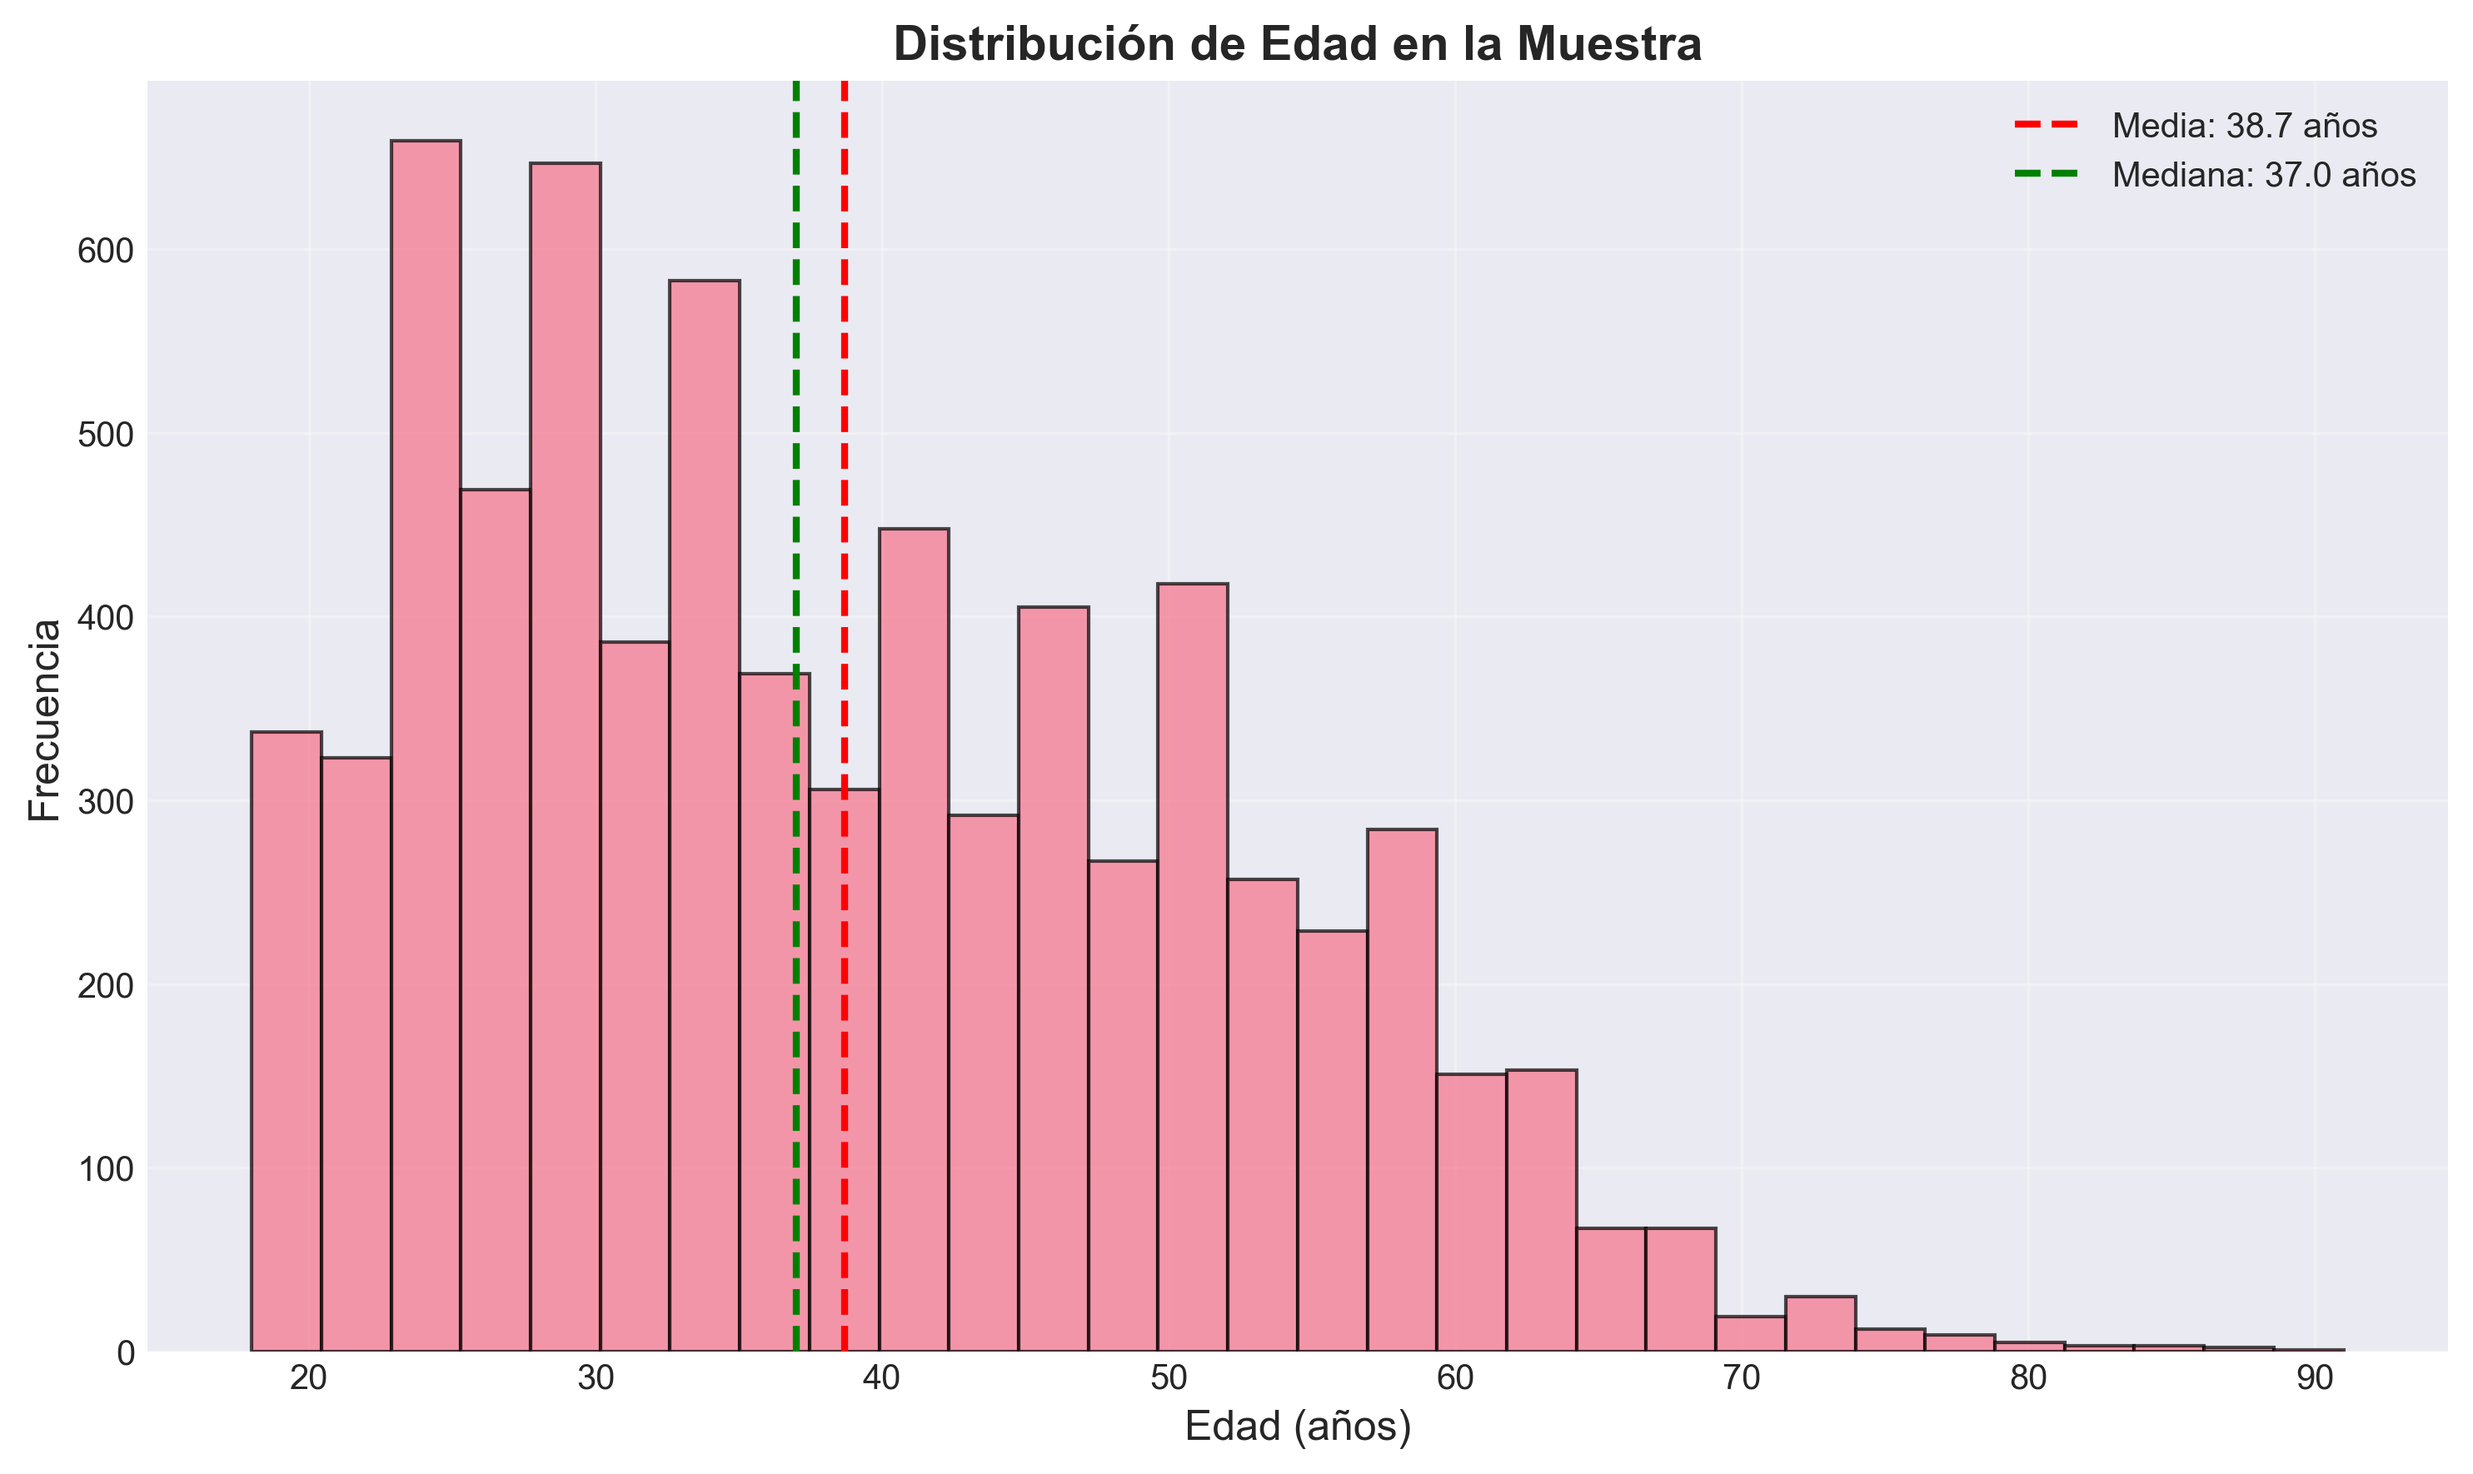
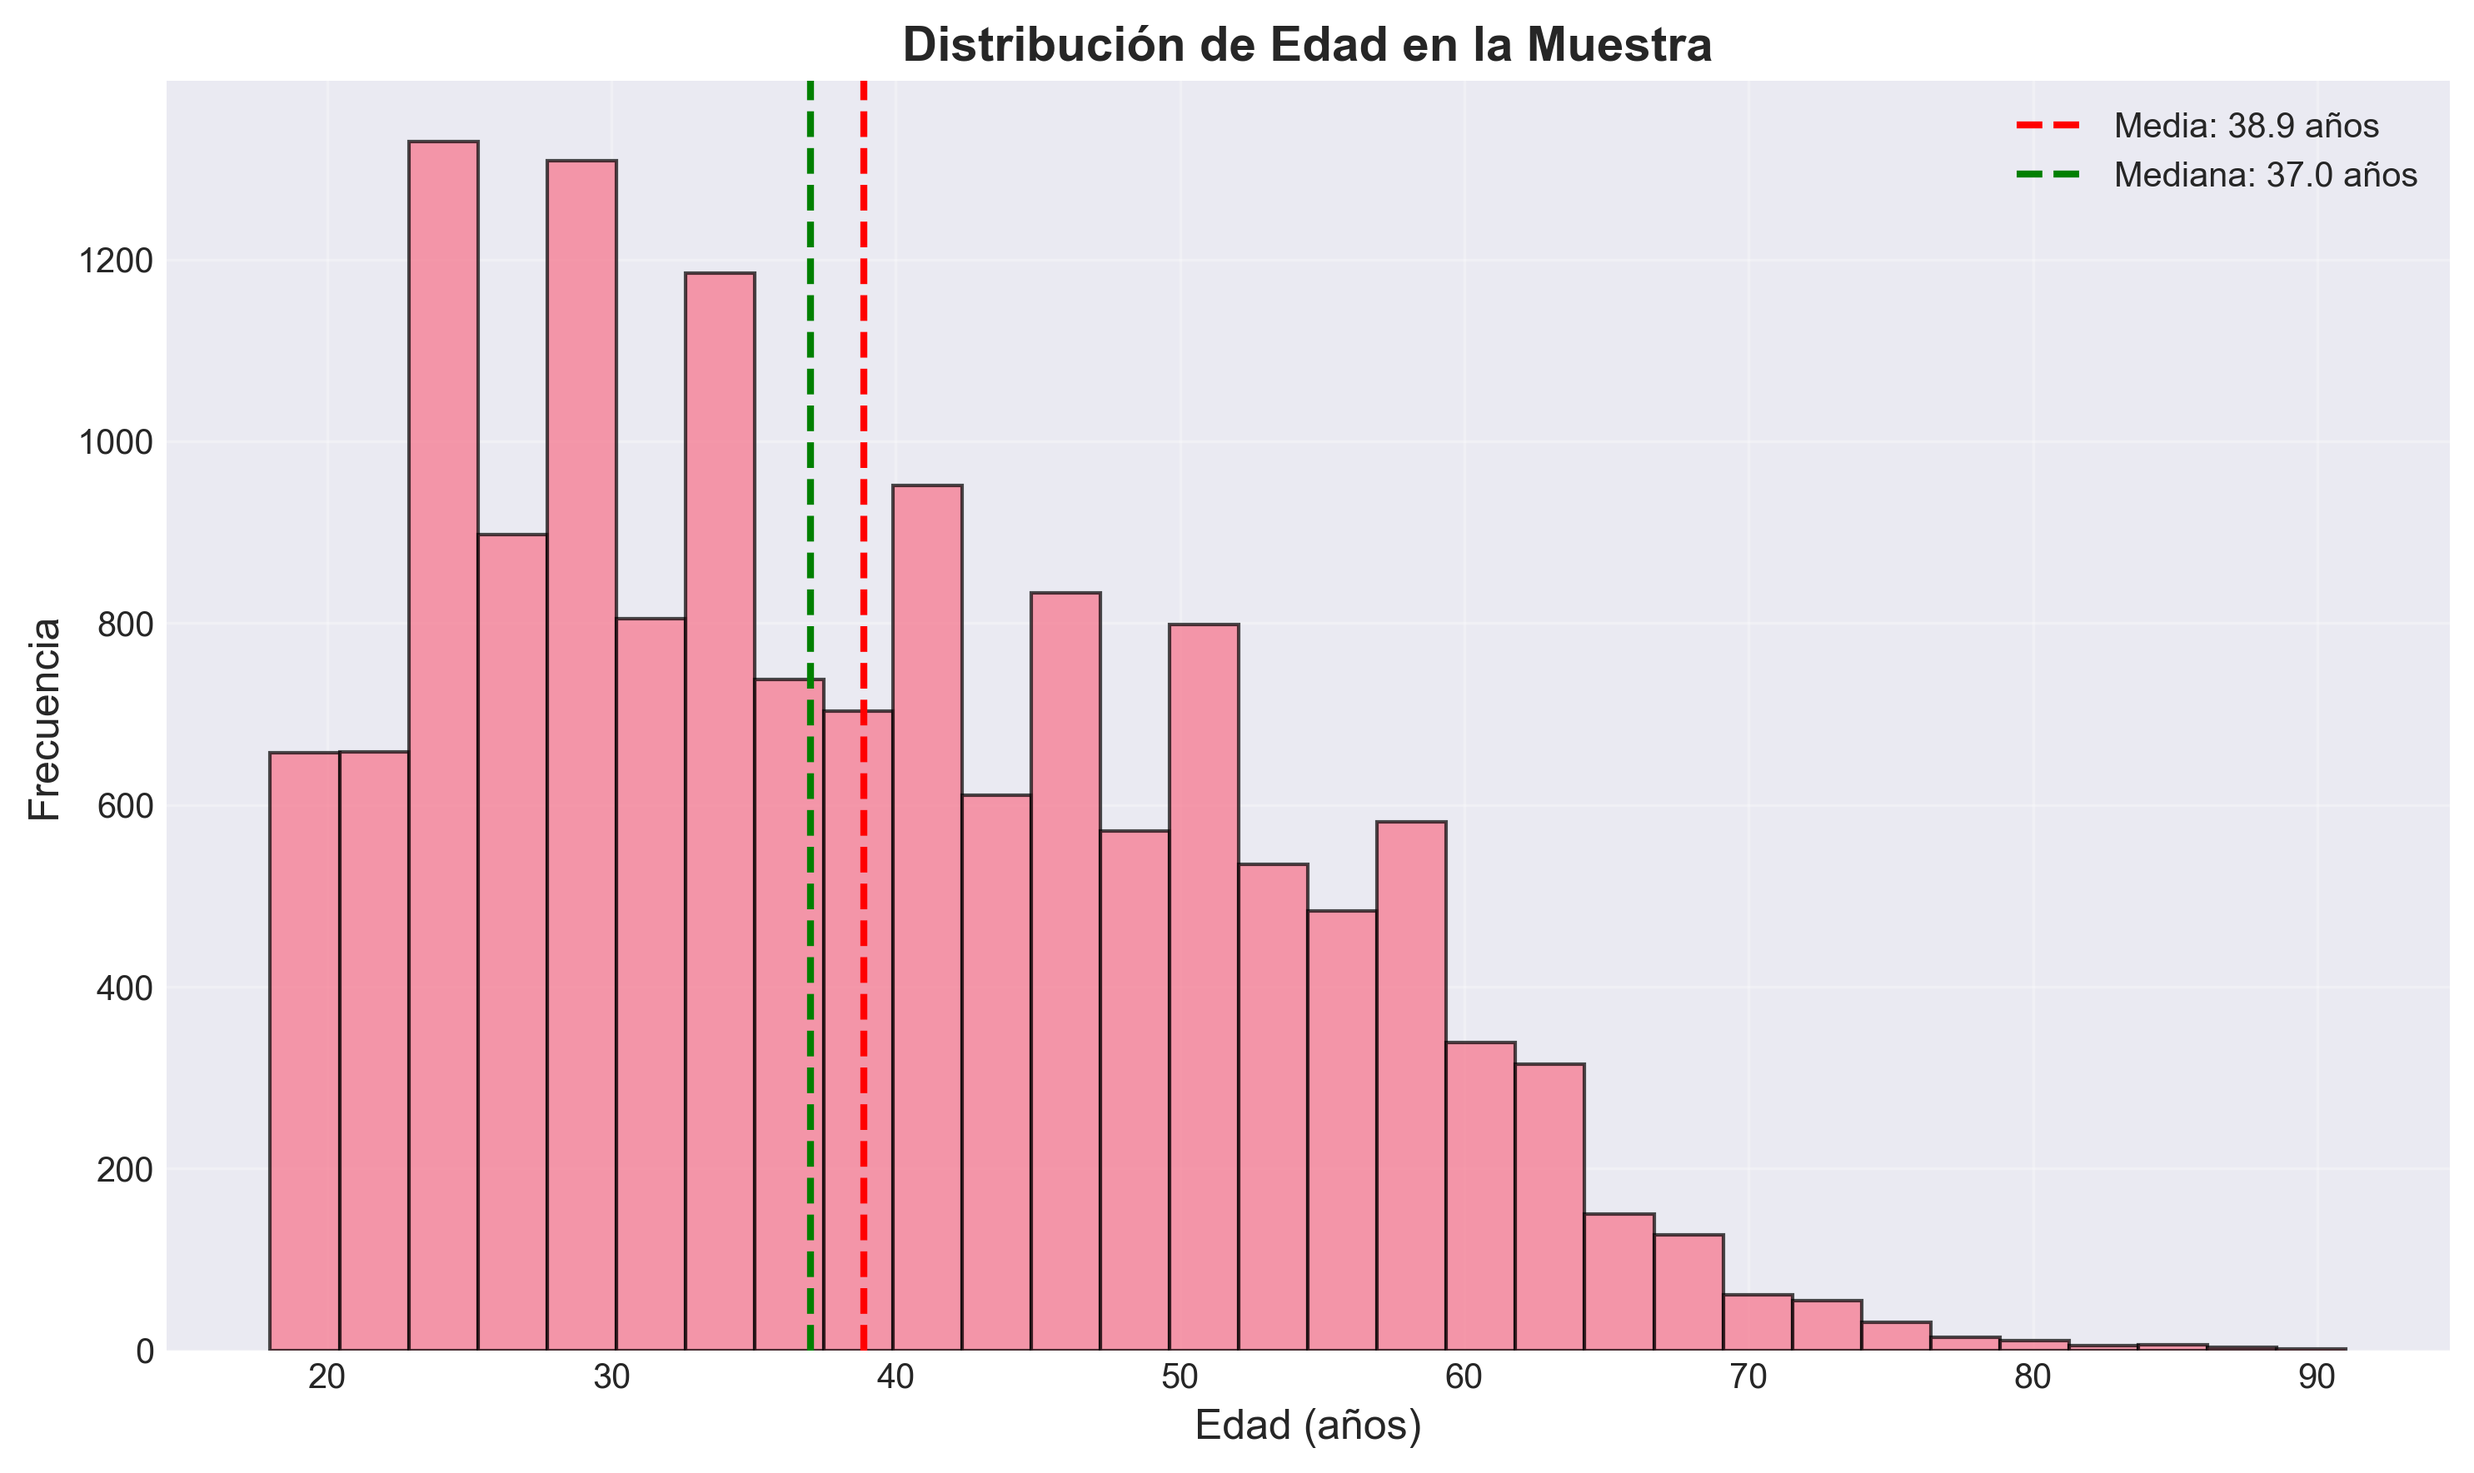
Added section "Instalar librerías"

diff --git a/02_output/tables/comparison_baseline_imputed.tex b/02_output/tables/comparison_baseline_imputed.tex
@@ -1,6 +1,6 @@
 
 % Table created by stargazer v.5.2.3 by Marek Hlavac, Social Policy Institute. E-mail: marek.hlavac at gmail.com
-% Date and time: Sun, Feb 15, 2026 - 23:47:49
+% Date and time: mar, feb. 17, 2026 - 1:21:40 p. m.
 \begin{table}[!htbp] \centering 
   \caption{Age-Income Profile: Baseline vs Imputed Comparison} 
   \label{tab:comparison} 
@@ -12,25 +12,25 @@
  & \multicolumn{2}{c}{Baseline} & \multicolumn{2}{c}{Imputed} \\ 
 \\[-1.8ex] & (1) & (2) & (3) & (4)\\ 
 \hline \\[-1.8ex] 
- Age & 0.0815$^{***}$ & 0.0661$^{***}$ & 0.0678$^{***}$ & 0.0549$^{***}$ \\ 
-  & (0.0044) & (0.0038) & (0.0040) & (0.0035) \\ 
+ Age & 0.0835$^{***}$ & 0.0693$^{***}$ & 0.0698$^{***}$ & 0.0580$^{***}$ \\ 
+  & (0.0032) & (0.0028) & (0.0029) & (0.0026) \\ 
   & & & & \\ 
- Age Squared & $-$0.0010$^{***}$ & $-$0.0008$^{***}$ & $-$0.0008$^{***}$ & $-$0.0006$^{***}$ \\ 
-  & (0.0001) & (0.00004) & (0.00005) & (0.00004) \\ 
+ Age Squared & $-$0.0010$^{***}$ & $-$0.0008$^{***}$ & $-$0.0008$^{***}$ & $-$0.0007$^{***}$ \\ 
+  & (0.00004) & (0.00003) & (0.00003) & (0.00003) \\ 
   & & & & \\ 
- Hours Worked &  &  & 0.0136$^{***}$ & 0.0111$^{***}$ \\ 
-  &  &  & (0.0006) & (0.0005) \\ 
+ Hours Worked &  &  & 0.0130$^{***}$ & 0.0106$^{***}$ \\ 
+  &  &  & (0.0004) & (0.0004) \\ 
   & & & & \\ 
- Constant & 12.3600$^{***}$ & 12.6487$^{***}$ & 11.9878$^{***}$ & 12.3573$^{***}$ \\ 
-  & (0.0874) & (0.0761) & (0.0816) & (0.0723) \\ 
+ Constant & 12.3545$^{***}$ & 12.6197$^{***}$ & 12.0231$^{***}$ & 12.3654$^{***}$ \\ 
+  & (0.0636) & (0.0562) & (0.0595) & (0.0534) \\ 
   & & & & \\ 
 \hline \\[-1.8ex] 
 Labor Relation FE & No & No & Yes & Yes \\ 
-Peak Age & 41.2 & 41.4 & 44.1 & 44.6 \\ 
-Sample Size & 7,201 & 8,153 & 7,201 & 8,153 \\ 
-Observations & 7,201 & 8,153 & 7,201 & 8,153 \\ 
-R$^{2}$ & 0.0483 & 0.0393 & 0.2289 & 0.1956 \\ 
-Adjusted R$^{2}$ & 0.0481 & 0.0391 & 0.2279 & 0.1945 \\ 
+Peak Age & 40.6 & 40.8 & 43.6 & 44.0 \\ 
+Sample Size & 14,764 & 16,542 & 14,764 & 16,542 \\ 
+Observations & 14,764 & 16,542 & 14,764 & 16,542 \\ 
+R$^{2}$ & 0.0500 & 0.0420 & 0.2264 & 0.1967 \\ 
+Adjusted R$^{2}$ & 0.0499 & 0.0419 & 0.2260 & 0.1961 \\ 
 \hline 
 \hline \\[-1.8ex] 
 \textit{Note:}  & \multicolumn{4}{r}{$^{*}$p$<$0.1; $^{**}$p$<$0.05; $^{***}$p$<$0.01} \\ 

diff --git a/02_output/tables/age_income_regressions_imputed.tex b/02_output/tables/age_income_regressions_imputed.tex
@@ -1,6 +1,6 @@
 
 % Table created by stargazer v.5.2.3 by Marek Hlavac, Social Policy Institute. E-mail: marek.hlavac at gmail.com
-% Date and time: Sun, Feb 15, 2026 - 23:47:45
+% Date and time: mar, feb. 17, 2026 - 1:21:30 p. m.
 \begin{table}[!htbp] \centering 
   \caption{Age-Income Profile Regressions (Imputed Version)} 
   \label{tab:age_income_imputed} 
@@ -12,25 +12,25 @@
 \\[-1.8ex] & \multicolumn{2}{c}{Log(Monthly Income)} \\ 
 \\[-1.8ex] & (1) & (2)\\ 
 \hline \\[-1.8ex] 
- Age & 0.0661$^{***}$ & 0.0549$^{***}$ \\ 
-  & (0.0038) & (0.0035) \\ 
+ Age & 0.0693$^{***}$ & 0.0580$^{***}$ \\ 
+  & (0.0028) & (0.0026) \\ 
   & & \\ 
- Age Squared & $-$0.0008$^{***}$ & $-$0.0006$^{***}$ \\ 
-  & (0.00004) & (0.00004) \\ 
+ Age Squared & $-$0.0008$^{***}$ & $-$0.0007$^{***}$ \\ 
+  & (0.00003) & (0.00003) \\ 
   & & \\ 
- Hours Worked &  & 0.0111$^{***}$ \\ 
-  &  & (0.0005) \\ 
+ Hours Worked &  & 0.0106$^{***}$ \\ 
+  &  & (0.0004) \\ 
   & & \\ 
- Constant & 12.6487$^{***}$ & 12.3573$^{***}$ \\ 
-  & (0.0761) & (0.0723) \\ 
+ Constant & 12.6197$^{***}$ & 12.3654$^{***}$ \\ 
+  & (0.0562) & (0.0534) \\ 
   & & \\ 
 \hline \\[-1.8ex] 
 Labor Relation FE & No & Yes \\ 
-Peak Age & 41.4 & 44.6 \\ 
+Peak Age & 40.8 & 44.0 \\ 
 Sample & Full (N=8,153) & Full (N=8,153) \\ 
-Observations & 8,153 & 8,153 \\ 
-R$^{2}$ & 0.0393 & 0.1956 \\ 
-Adjusted R$^{2}$ & 0.0391 & 0.1945 \\ 
+Observations & 16,542 & 16,542 \\ 
+R$^{2}$ & 0.0420 & 0.1967 \\ 
+Adjusted R$^{2}$ & 0.0419 & 0.1961 \\ 
 \hline 
 \hline \\[-1.8ex] 
 \textit{Note:}  & \multicolumn{2}{r}{$^{*}$p$<$0.1; $^{**}$p$<$0.05; $^{***}$p$<$0.01} \\ 

diff --git a/02_output/tables/age_income_regressions.tex b/02_output/tables/age_income_regressions.tex
@@ -1,6 +1,6 @@
 
 % Table created by stargazer v.5.2.3 by Marek Hlavac, Social Policy Institute. E-mail: marek.hlavac at gmail.com
-% Date and time: Sun, Feb 15, 2026 - 22:38:29
+% Date and time: mar, feb. 17, 2026 - 1:24:45 p. m.
 \begin{table}[!htbp] \centering 
   \caption{Age-Income Profile Regressions} 
   \label{tab:age_income} 
@@ -12,24 +12,24 @@
 \\[-1.8ex] & \multicolumn{2}{c}{Log(Monthly Income)} \\ 
 \\[-1.8ex] & (1) & (2)\\ 
 \hline \\[-1.8ex] 
- Age & 0.0815$^{***}$ & 0.0678$^{***}$ \\ 
-  & (0.0044) & (0.0040) \\ 
+ Age & 0.0835$^{***}$ & 0.0698$^{***}$ \\ 
+  & (0.0032) & (0.0029) \\ 
   & & \\ 
  Age Squared & $-$0.0010$^{***}$ & $-$0.0008$^{***}$ \\ 
-  & (0.0001) & (0.00005) \\ 
+  & (0.00004) & (0.00003) \\ 
   & & \\ 
- Hours Worked &  & 0.0136$^{***}$ \\ 
-  &  & (0.0006) \\ 
+ Hours Worked &  & 0.0130$^{***}$ \\ 
+  &  & (0.0004) \\ 
   & & \\ 
- Constant & 12.3600$^{***}$ & 11.9878$^{***}$ \\ 
-  & (0.0874) & (0.0816) \\ 
+ Constant & 12.3545$^{***}$ & 12.0231$^{***}$ \\ 
+  & (0.0636) & (0.0595) \\ 
   & & \\ 
 \hline \\[-1.8ex] 
 Labor Relation FE & No & Yes \\ 
-Peak Age & 41.2 & 44.1 \\ 
-Observations & 7,201 & 7,201 \\ 
-R$^{2}$ & 0.0483 & 0.2289 \\ 
-Adjusted R$^{2}$ & 0.0481 & 0.2279 \\ 
+Peak Age & 40.6 & 43.6 \\ 
+Observations & 14,764 & 14,764 \\ 
+R$^{2}$ & 0.0500 & 0.2264 \\ 
+Adjusted R$^{2}$ & 0.0499 & 0.2260 \\ 
 \hline 
 \hline \\[-1.8ex] 
 \textit{Note:}  & \multicolumn{2}{r}{$^{*}$p$<$0.1; $^{**}$p$<$0.05; $^{***}$p$<$0.01} \\ 

diff --git a/02_output/tables/peak_age_estimates.tex b/02_output/tables/peak_age_estimates.tex
@@ -6,9 +6,9 @@
 \hline\hline
 & Estimate \\
 \hline
-Peak Age (years) & 41.19 \\
-95\% CI Lower Bound & 40.39 \\
-95\% CI Upper Bound & 42.01 \\
+Peak Age (years) & 40.62 \\
+95\% CI Lower Bound & 40.13 \\
+95\% CI Upper Bound & 41.24 \\
 \hline
 Model & Unconditional \\
 Bootstrap Replications & 500 \\

diff --git a/02_output/tables/peak_age_estimates_imputed.tex b/02_output/tables/peak_age_estimates_imputed.tex
@@ -6,9 +6,9 @@
 \hline\hline
 & Estimate \\
 \hline
-Peak Age (years) & 41.41 \\
-95\% CI Lower Bound & 40.54 \\
-95\% CI Upper Bound & 42.22 \\
+Peak Age (years) & 40.79 \\
+95\% CI Lower Bound & 40.22 \\
+95\% CI Upper Bound & 41.40 \\
 \hline
 Model & Unconditional \\
 Bootstrap Replications & 500 \\
